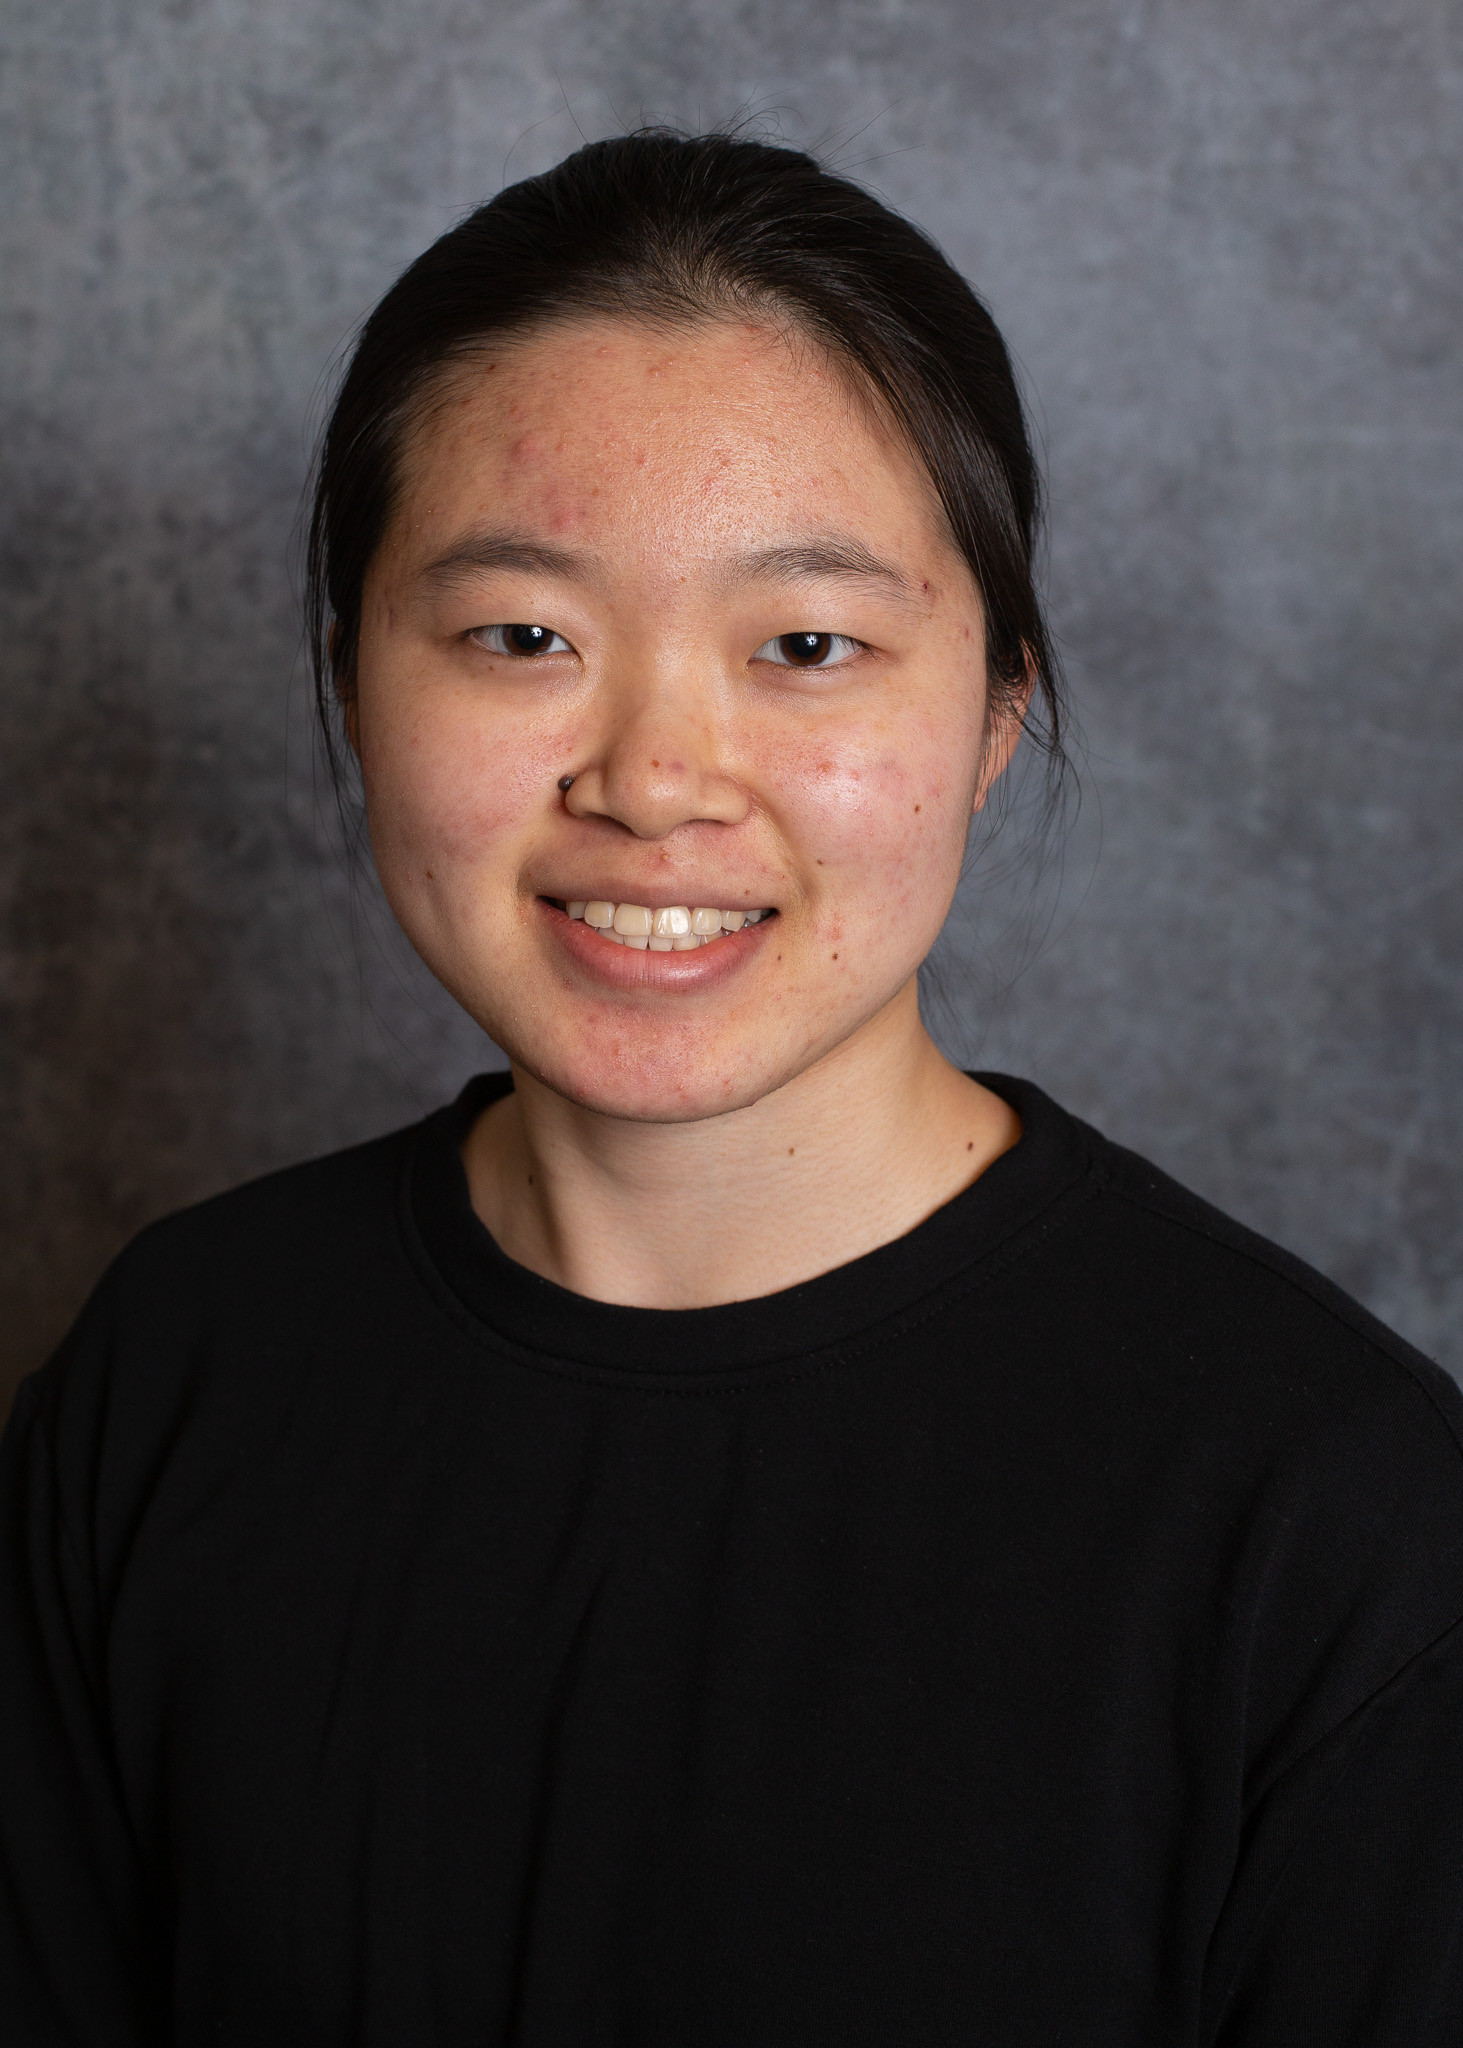
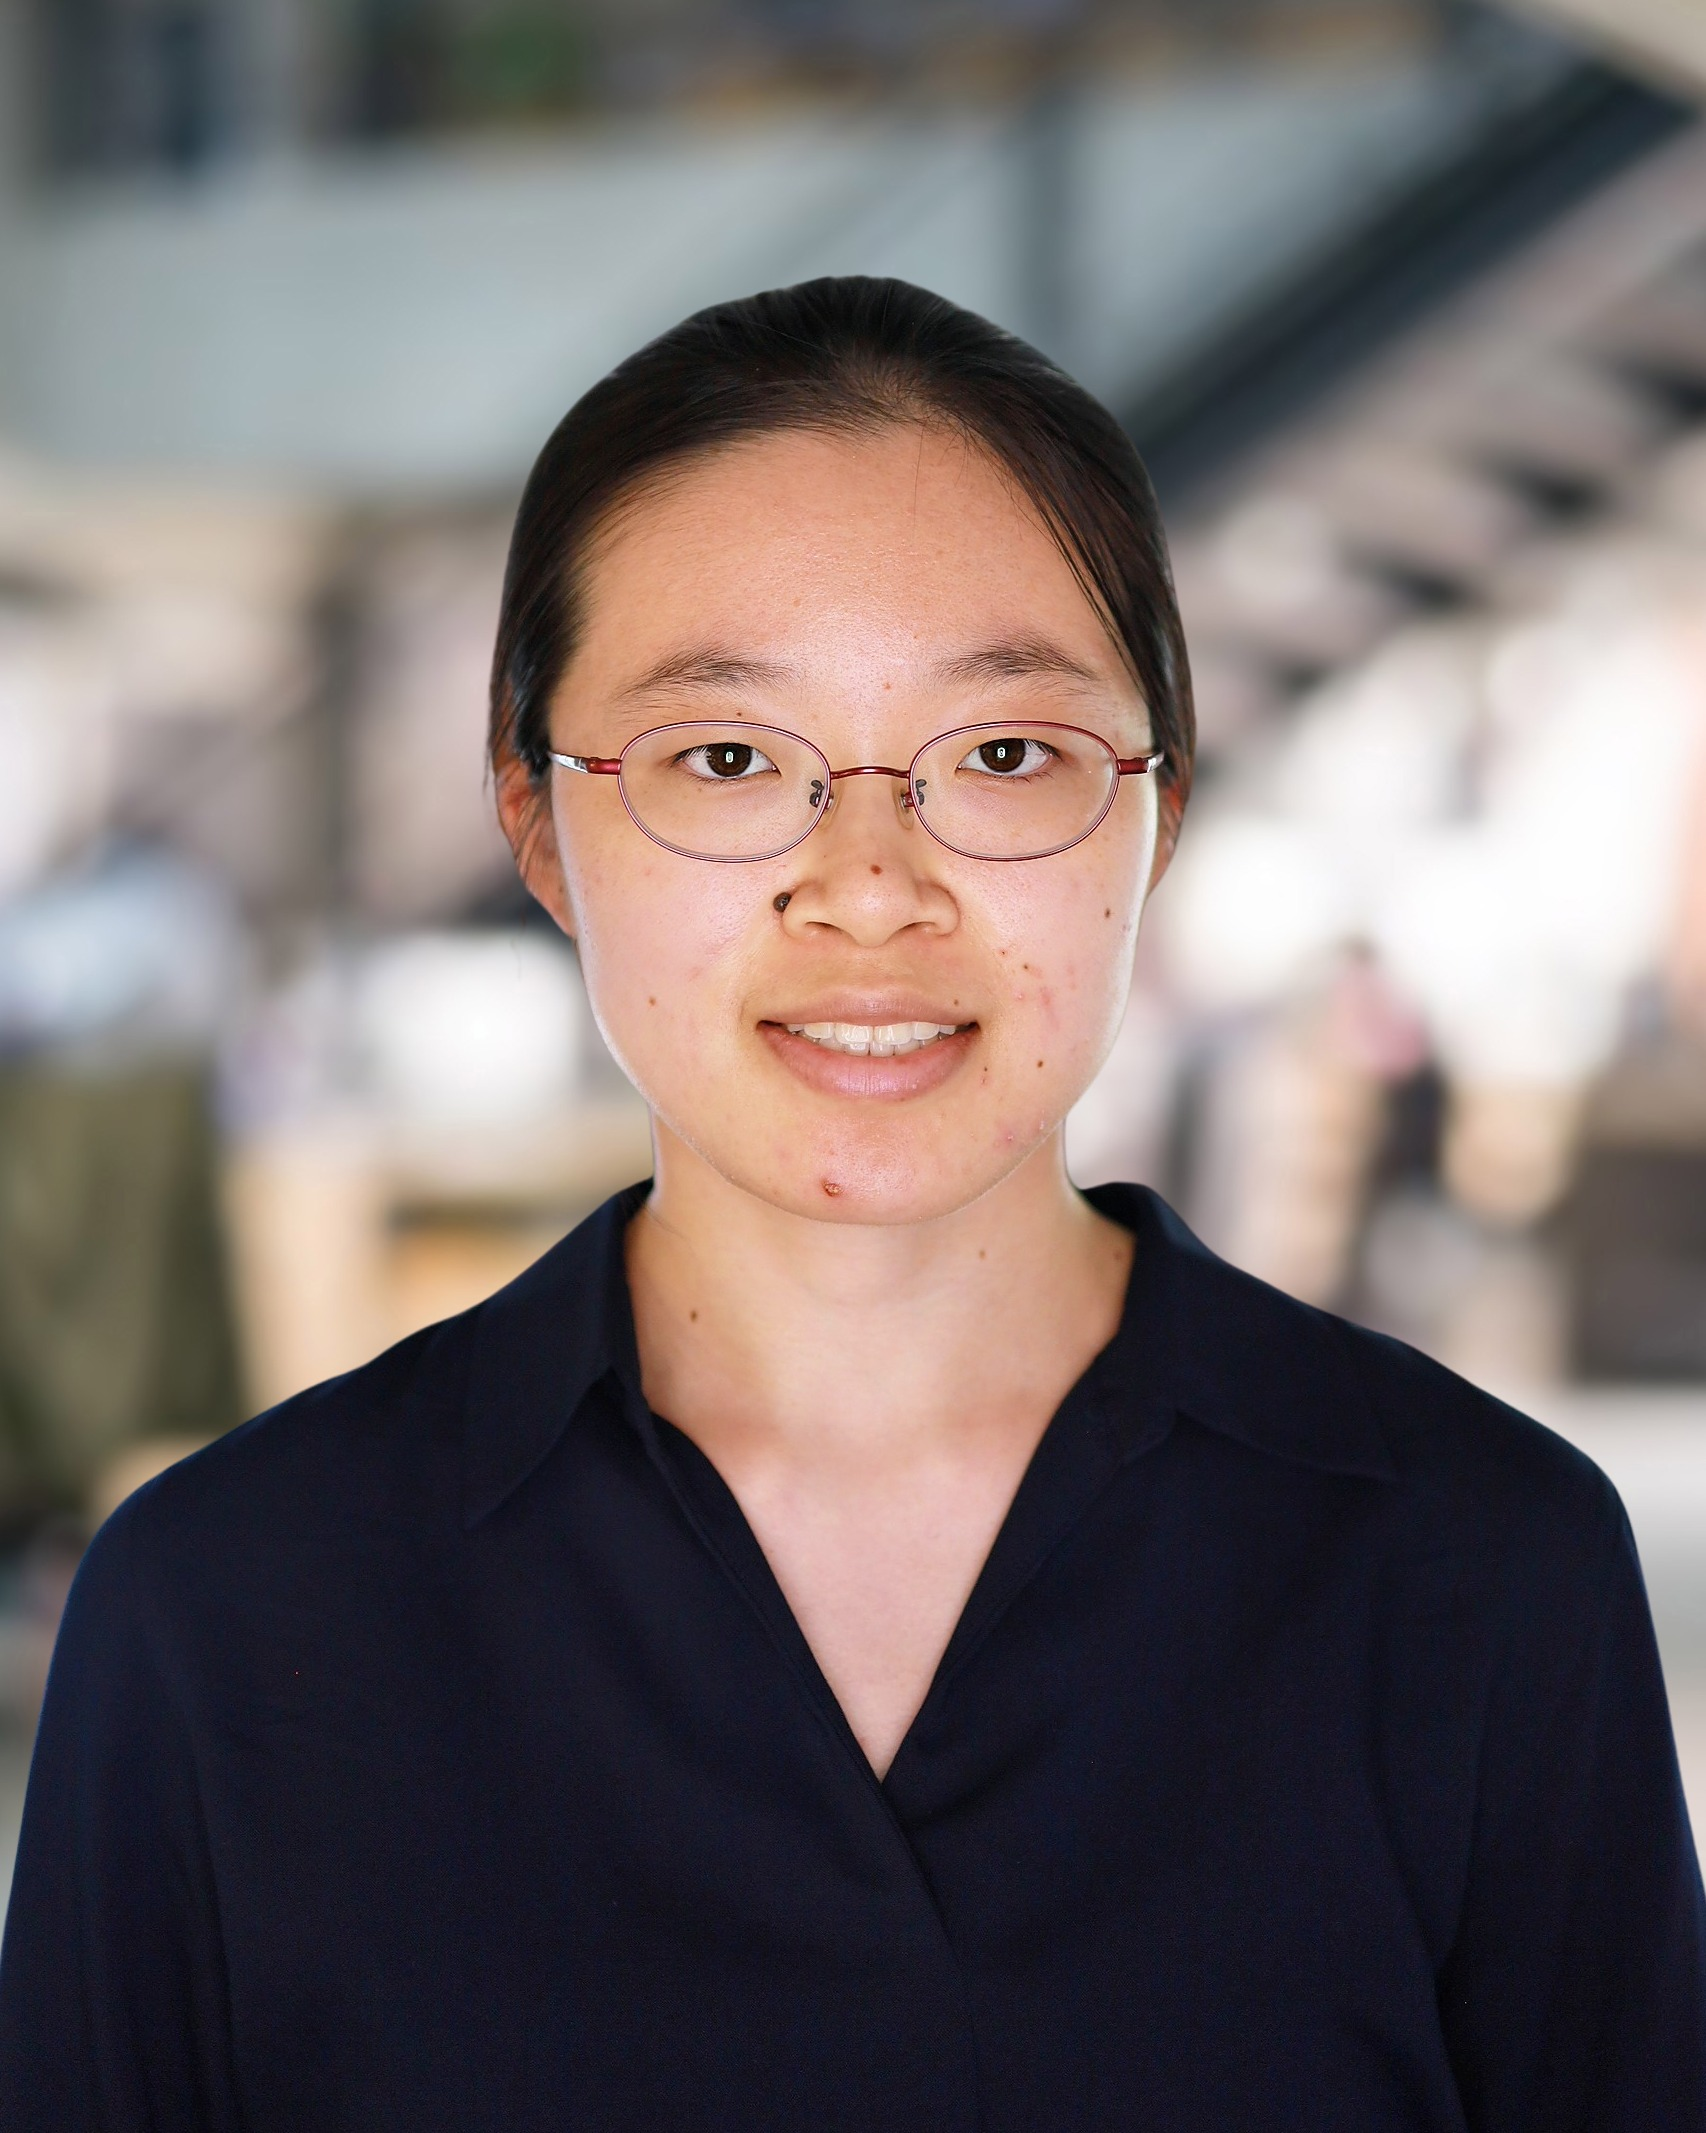
update mobile styling, update bio

diff --git a/style.css b/style.css
@@ -37,19 +37,6 @@ Heidi Wang
   margin: 0;
 }
 
-/* name */
-
-.name {
-  /* font-family: "Lato", sans-serif; */
-  font-weight: bold;
-  font-size: 32px;
-  text-decoration: none;
-}
-
-/* .name:link, .name:visited {
-  color: var(--heading);
-} */
-
 /* links, selection */
 
 a:link, a:visited {
@@ -74,25 +61,34 @@ p {
 
 header {
   background-color: var(--background);
-  padding: 3vh 0 3vh 5vw;
+  padding: 20px 80px;
   /* display: block;
   position: sticky; */
   top: 0;
 }
 
 .header-icon {
-  max-width: 2vw;
+  width: 30px;
 }
 
 footer {
   background-color: var(--background-mute);
-  padding: 6vh 0 6vh 20vw;
+  padding: 40px 20vw;
   display: flex;
+  justify-content: space-between;
 }
 
-.contact {
-  padding: 0 0 0 30vw;
+.name {
+  /* font-family: "Lato", sans-serif; */
+  font-weight: bold;
+  font-size: 32px;
+  text-decoration: none;
+  /* padding: 0 2em 0 0; */
 }
+
+/* .name:link, .name:visited {
+  color: var(--heading);
+} */
 
 .contact p {
   padding: 0 0 0.3em;
@@ -107,16 +103,18 @@ footer {
 
 .bio {
   display: flex;
+  justify-content: center;
+  align-items: start;
 }
 
 .headshot {
-  max-height: 40vh;
-  padding: 2em 2em 2em 20vw;
+  max-width: 15vw;
+  padding: 2.5vw;
 }
 
 .blurb {
-  /* text-align: center; */
-  padding: 2em 20vw 2em 2em;
+  max-width: 30vw;
+  padding: 2.5vw;
 }
 
 /* main */
@@ -304,4 +302,21 @@ a.multi-link:hover {
 .grid p {
   font-size: 17px;
   padding: 2% 5% 0;
+}
+
+@media only screen and (max-width: 600px) {
+  .bio {
+    display: unset
+  }
+
+  .headshot {
+    display: block;
+    margin-left: auto;
+    margin-right: auto;
+    max-width: 60%;
+  }
+
+  .blurb {
+    max-width: unset;
+  }
 }

diff --git a/index.html b/index.html
@@ -3,6 +3,7 @@
 <html lang="en">
   <head>
     <meta charset="utf-8">
+    <meta name="viewport" content="width=device-width, initial-scale=1.0">
     <link rel="stylesheet" href="style.css">
     <!-- <link href="https://cdn.jsdelivr.net/npm/bootstrap@5.2.3/dist/css/bootstrap.min.css" rel="stylesheet" 
       integrity="sha384-rbsA2VBKQhggwzxH7pPCaAqO46MgnOM80zW1RWuH61DGLwZJEdK2Kadq2F9CUG65" crossorigin="anonymous"> -->
@@ -23,13 +24,10 @@
       <div class="bio">
         <img class="headshot" src="assets/photo.jpg" alt="Heidi Wang">
         <p class="blurb">
-          Welcome to my portfolio! I'm Heidi.
-          During my undergraduate program, I studied an interdisciplinary mix of
-          computer science, data science, mathematics, information science, and UX.
-          I am beginning my masters in Artificial Intelligence with a focus on Computer Science and Engineering this autumn.
+          I specialize in machine learning, focusing on computer vision and 3D data processing using deep learning.
+          I am currently pursuing a masters in Artificial Intelligence with a concentration in Computer Science and Engineering.
           <br/><br/>
-          I am a proficient programmer with deep experience in computing algorithms and object oriented programming.
-          I have experience with interdisciplinary applications of agile software development and iterative design processes.
+          I also have an academic background in mathematics, data science, information science, and UX design and research.
         </p>
       </div>
 
